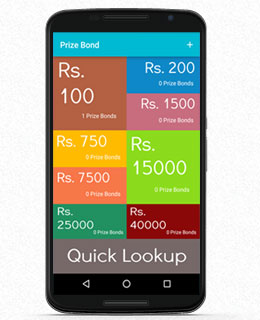
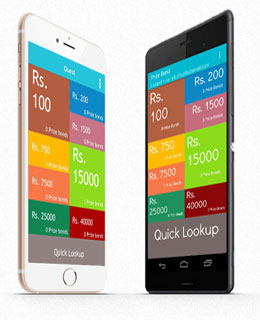
Walknsell Portfolio.
Walknsell added in portfolio.

diff --git a/index.php b/index.php
@@ -429,6 +429,16 @@
 					</a>
 				</figure>
 			</li>
+            <li class="portfolio-mix col-md-3 web-app">
+				<figure class="portfolio-item">
+					<a href="assets/walknsell.jpg" rel="prettyPhoto[portfolio-gal]">
+						<img class="img-responsive" src="assets/walknsells.jpg" alt="">
+						<div class="caption-bg"></div>
+						<h3>WalknSell</h3>
+						<p class="portfolio-item-description">WalknSell is a social website that helps students and teachers post classifieds related to their school or university.</p>
+					</a>
+				</figure>
+			</li>
             
             <!--
 			<li class="portfolio-mix col-md-3 ui-design">
